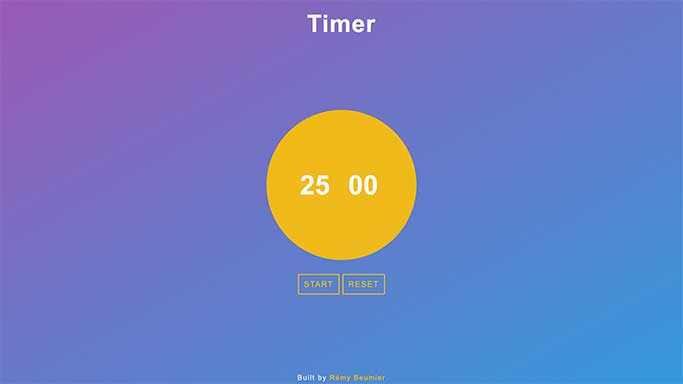
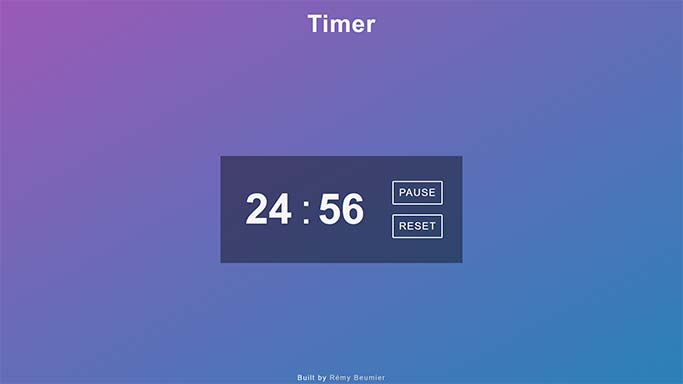
improved timer design and features

Changed region(s): [[0.3075, 0.2812, 1.0, 1.0], [0.4612, 0.0312, 0.4919, 0.0625]]

diff --git a/css/style.css b/css/style.css
@@ -32,27 +32,36 @@ section {
 
 #clock {
   display: flex;
-  justify-content: center;
+  flex-direction: column;
+  justify-content: space-between;
   align-items: center;
-  background: rgba(255, 193, 7, .9);
-  width: 200px;
-  height: 200px;
+  background: rgba(0, 0, 0, .4);
   margin: auto;
-  border-radius: 50%;
-  font-size: 42px;
+  padding: 20px;
 }
 @media only screen and (min-width: 768px) {
   #clock {
-    width: 300px;
-    height: 300px;
-    font-size: 54px;
+    flex-direction: row;
+    padding: 40px;
+  }
+}
+
+#clock form {
+  margin-bottom: 20px;
+  display: flex;
+}
+@media only screen and (min-width: 768px) {
+  #clock form {
+    margin-right: 20px;
+    margin-bottom: 0;
   }
 }
 
 #clock input {
   display: inline-block;
-  padding-left: 5px;
+  padding-left: 10px;
   width: 70px;
+  text-align: right;
   font-size: 42px;
   background: transparent;
   color: whitesmoke;
@@ -62,35 +71,56 @@ section {
 }
 @media only screen and (min-width: 768px) {
   #clock input {
-    font-size: 54px;
-    width: 80px;
+    font-size: 84px;
+    width: 120px;
   }
 }
-#clock input:focus, #clock input:hover {
+#clock input:focus:not([disabled]), 
+#clock input:hover:not([disabled]) {
   background: rgba(0, 0, 0, .2);
 }
-
-#min {
-/*   text-align: right; */
+#clock form span {
+  font-size: 42px;
 }
-
+@media only screen and (min-width: 768px) {
+  #clock form span {
+    font-size: 84px;
+  }
+}
 
 #controls {
-  padding: 40px 10px;
+  display: flex;
+}
+@media only screen and (min-width: 768px) {
+  #controls {
+    flex-direction: column;
+    margin-left: 20px;
+    font-size: 20px;
+  }
 }
 
-#controls span{
-  color: rgba(255, 193, 7, .9);
+#controls button {
+  -webkit-appearance: button;
+  font-size: inherit;
+  color: white;
   background: transparent;
-  border: solid 2px rgba(255, 193, 7, .9);
+  border: solid 2px white;
   padding: 10px;
-  transition: background .8s ease, color .8s ease;
+  width: 100px;
+  transition: background .4s ease, color .4s ease;
   border-radius: 2px;
+  margin: 0 5px;
 }
-#controls span:hover {
+@media only screen and (min-width: 768px) {
+  #controls button {
+    margin: 10px 0;
+  }
+}
+#controls button:hover,
+#controls button:focus {
   cursor: pointer;
-  background: rgba(255, 193, 7, .9);
-  color: #f5f5f5;
+  background: white;
+  color: black;
 }
 
 footer {
@@ -99,10 +129,11 @@ footer {
 }
 
 a {
-  color: #FFC107;
+  color: lightgray;
   text-decoration: none;
 }
-a:hover {
+a:hover,
+a:focus {
   color: whitesmoke;
   text-decoration: underline;
 }

diff --git a/js/index.js b/js/index.js
@@ -1,40 +1,65 @@
 
-var time = document.getElementById("time"),
-    minute = document.getElementById("min"),
-    second = document.getElementById("sec"),
-    startButton = document.getElementById("start"),
-    resetButton = document.getElementById("reset");
+// add quick timer: 1min 5min etc.
+// add status bar
+
+var time = document.getElementById("time");
+var minute = document.getElementById("min");
+var second = document.getElementById("sec");
+var startButton = document.getElementById("start");
+var resetButton = document.getElementById("reset");
+var seti = undefined;
+var mm = "25";
+var ss = "00";
 
 startButton.addEventListener("click", function start () {
   if (startButton.innerHTML === "START") {
     startButton.innerHTML = "PAUSE";
+    mm = minute.value;
+    ss = second.value;
+    if (minute.value === "") minute.value = "00";
+    if (second.value === "") second.value = "00";
+    minute.setAttribute("disabled", true);
+    second.setAttribute("disabled", true);
     seti = setInterval(function () {
       if (second.value > 0) {
         second.value -= 1;
+        if (second.value < 10 && second.value >= 0) {
+          second.value = "0" + second.value;
+        }
       }
       else if (minute.value > 0) {
         second.value = "59";
         minute.value -= 1;
+        if (minute.value < 10 && minute.value >= 0) {
+          minute.value = "0" + minute.value;
+        }
       }
       else {
         clearInterval(seti);
         document.body.style.backgroundImage = "linear-gradient(to top left, #c0392b, #e74c3c , #9b59b6)";
-        second.value = "";
-        minute.value = "";
-        alert("Time Out !");
+        setTimeout(function() {
+          alert("Time Out !");
+          res();
+        }, 100);
       }
     }, 1000);
   }
   else {
+    minute.removeAttribute("disabled");
+    second.removeAttribute("disabled");
     startButton.innerHTML = "START";
     clearInterval(seti);
   }
 });
 
-resetButton.addEventListener("click", function res () {
+resetButton.addEventListener("click", res);
+
+function res() {
   clearInterval(seti);
-  minute.value = "25";
-  second.value = "00";
+  minute.value = mm;
+  second.value = ss;
+  minute.removeAttribute("disabled");
+  second.removeAttribute("disabled");
   startButton.innerHTML = "START";
   document.body.style.backgroundImage = "linear-gradient(to top left, #2980b9, #9b59b6)";
-});
+}

diff --git a/index.html b/index.html
@@ -24,7 +24,7 @@
 
 <body>
 
-  <header>
+<header>
   <h1>Timer</h1>
 </header>
 
@@ -33,12 +33,13 @@
     <div id="clock">
       <form>
         <input id="min" type="number" step="1" min="0" max="59" value="25"></input>
+        <span>:</span>
         <input id="sec" type="number" step="1" min="0" max="59" value="00"></input>
       </form>
-    </div>
-    <div id="controls">
-      <span id="start">START</span>
-      <span id="reset">RESET</span>
+      <div id="controls">
+        <button id="start">START</button>
+        <button id="reset">RESET</button>
+      </div>
     </div>
   </div>
 </section>
@@ -46,15 +47,8 @@
 <footer>
   <p>Built by <a href="https://remybeumier.be">Rémy Beumier</a></p>
 </footer>
-  <script src='https://cdnjs.cloudflare.com/ajax/libs/jquery/3.1.1/jquery.min.js'></script>
-
-  
-
-    <script  src="js/index.js"></script>
-
-
-
-
+<script src='https://cdnjs.cloudflare.com/ajax/libs/jquery/3.1.1/jquery.min.js'></script>
+<script  src="js/index.js"></script>
 </body>
 
 </html>
